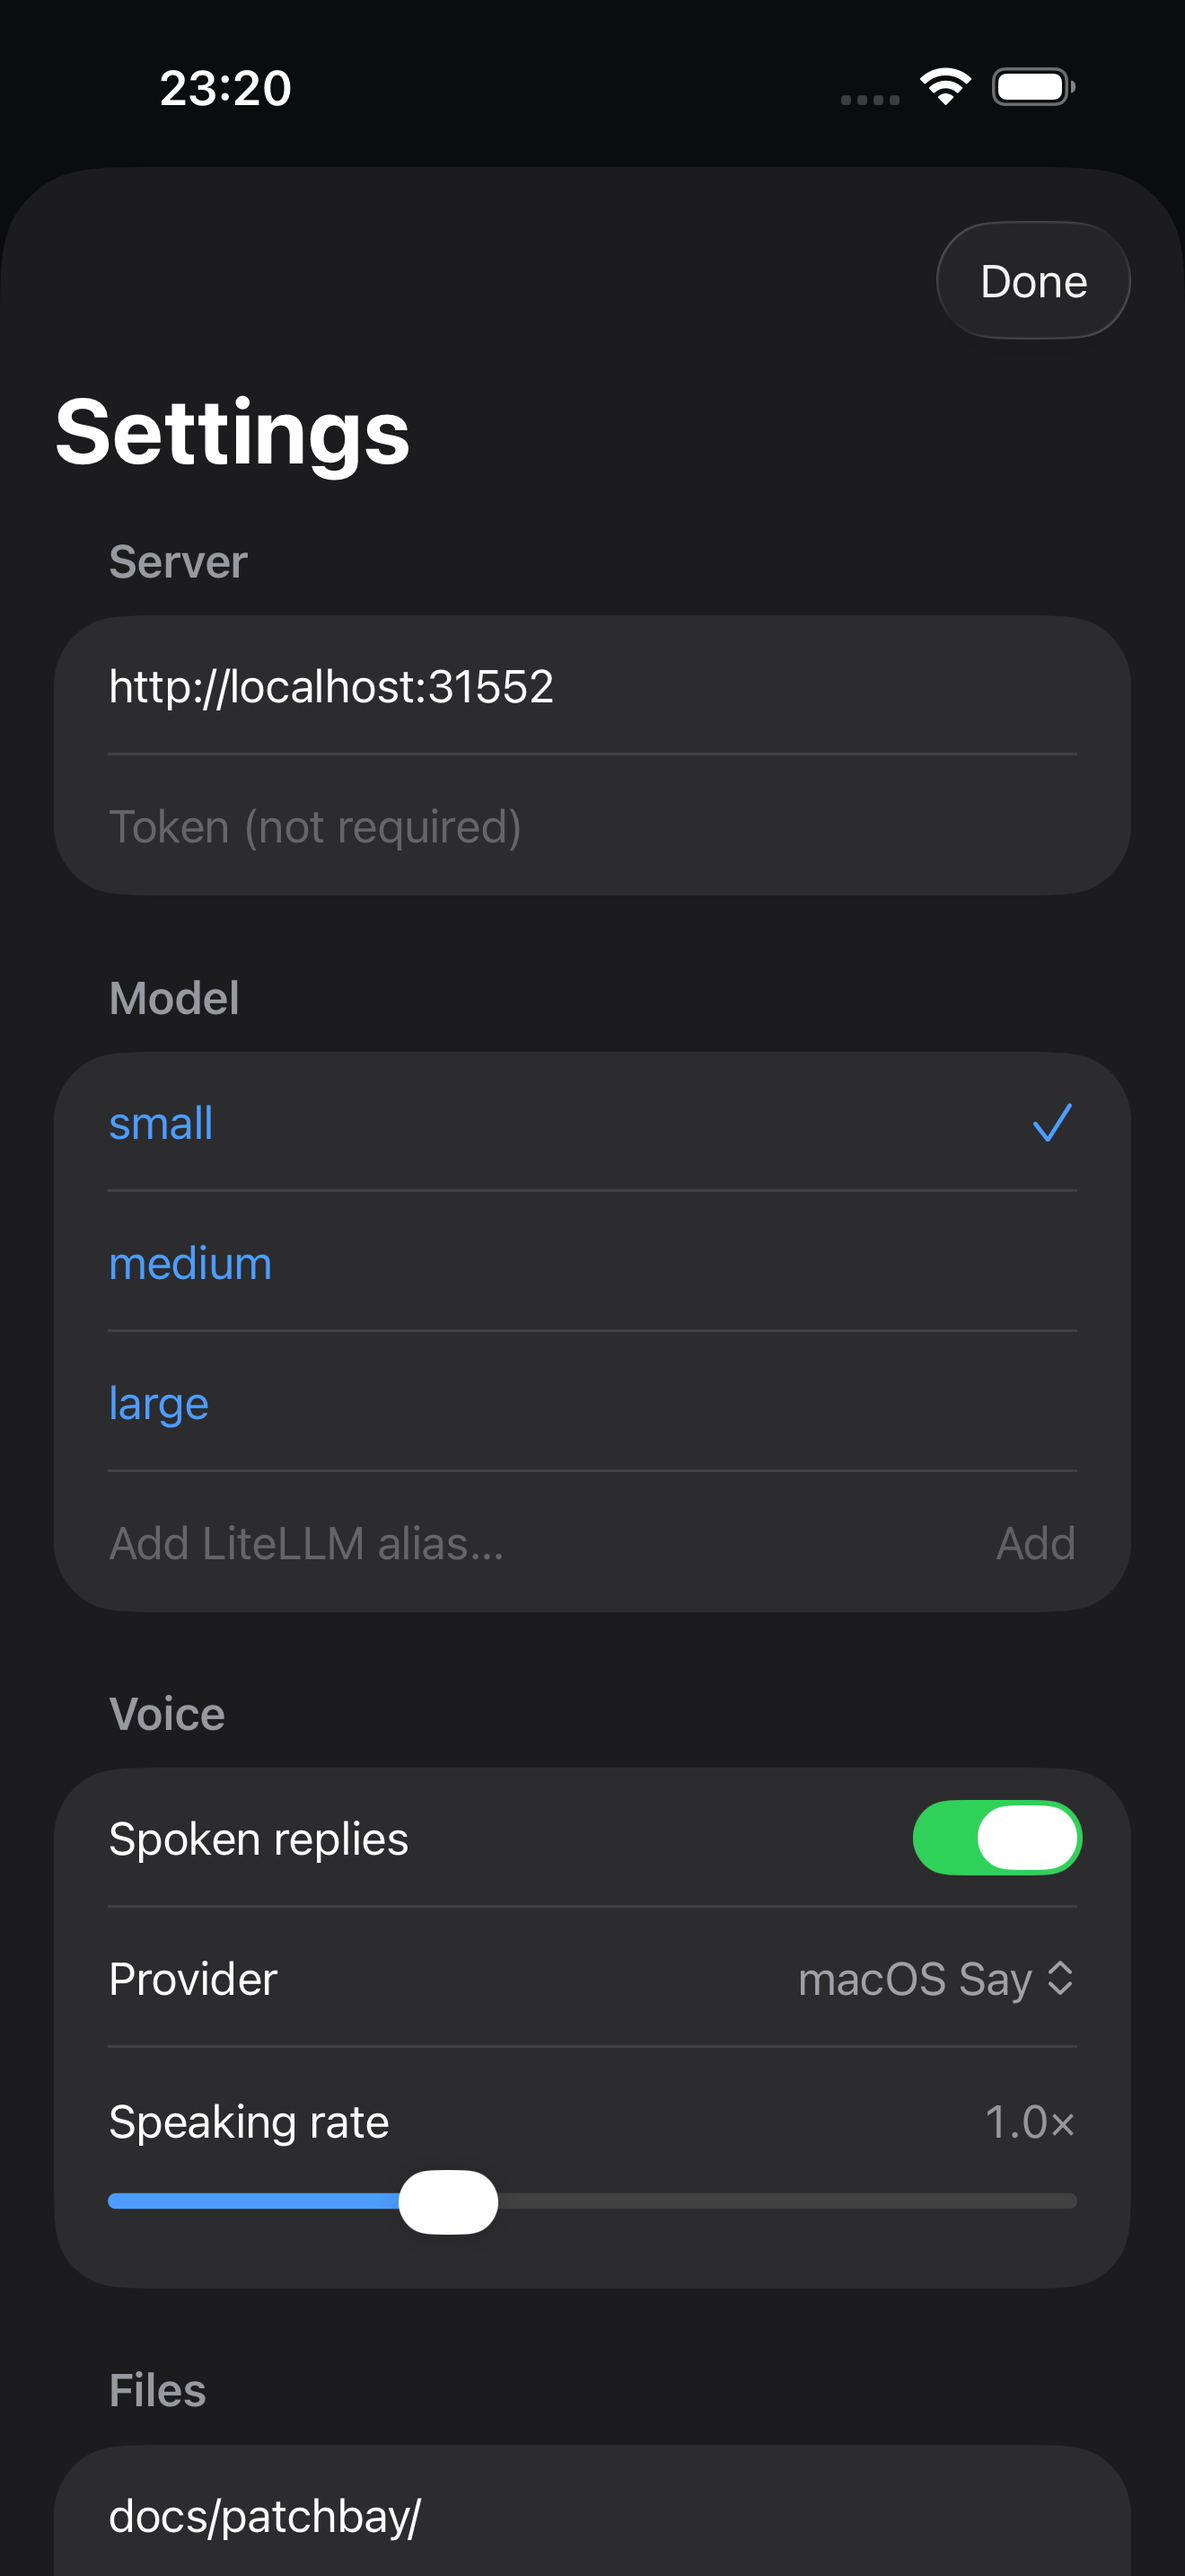
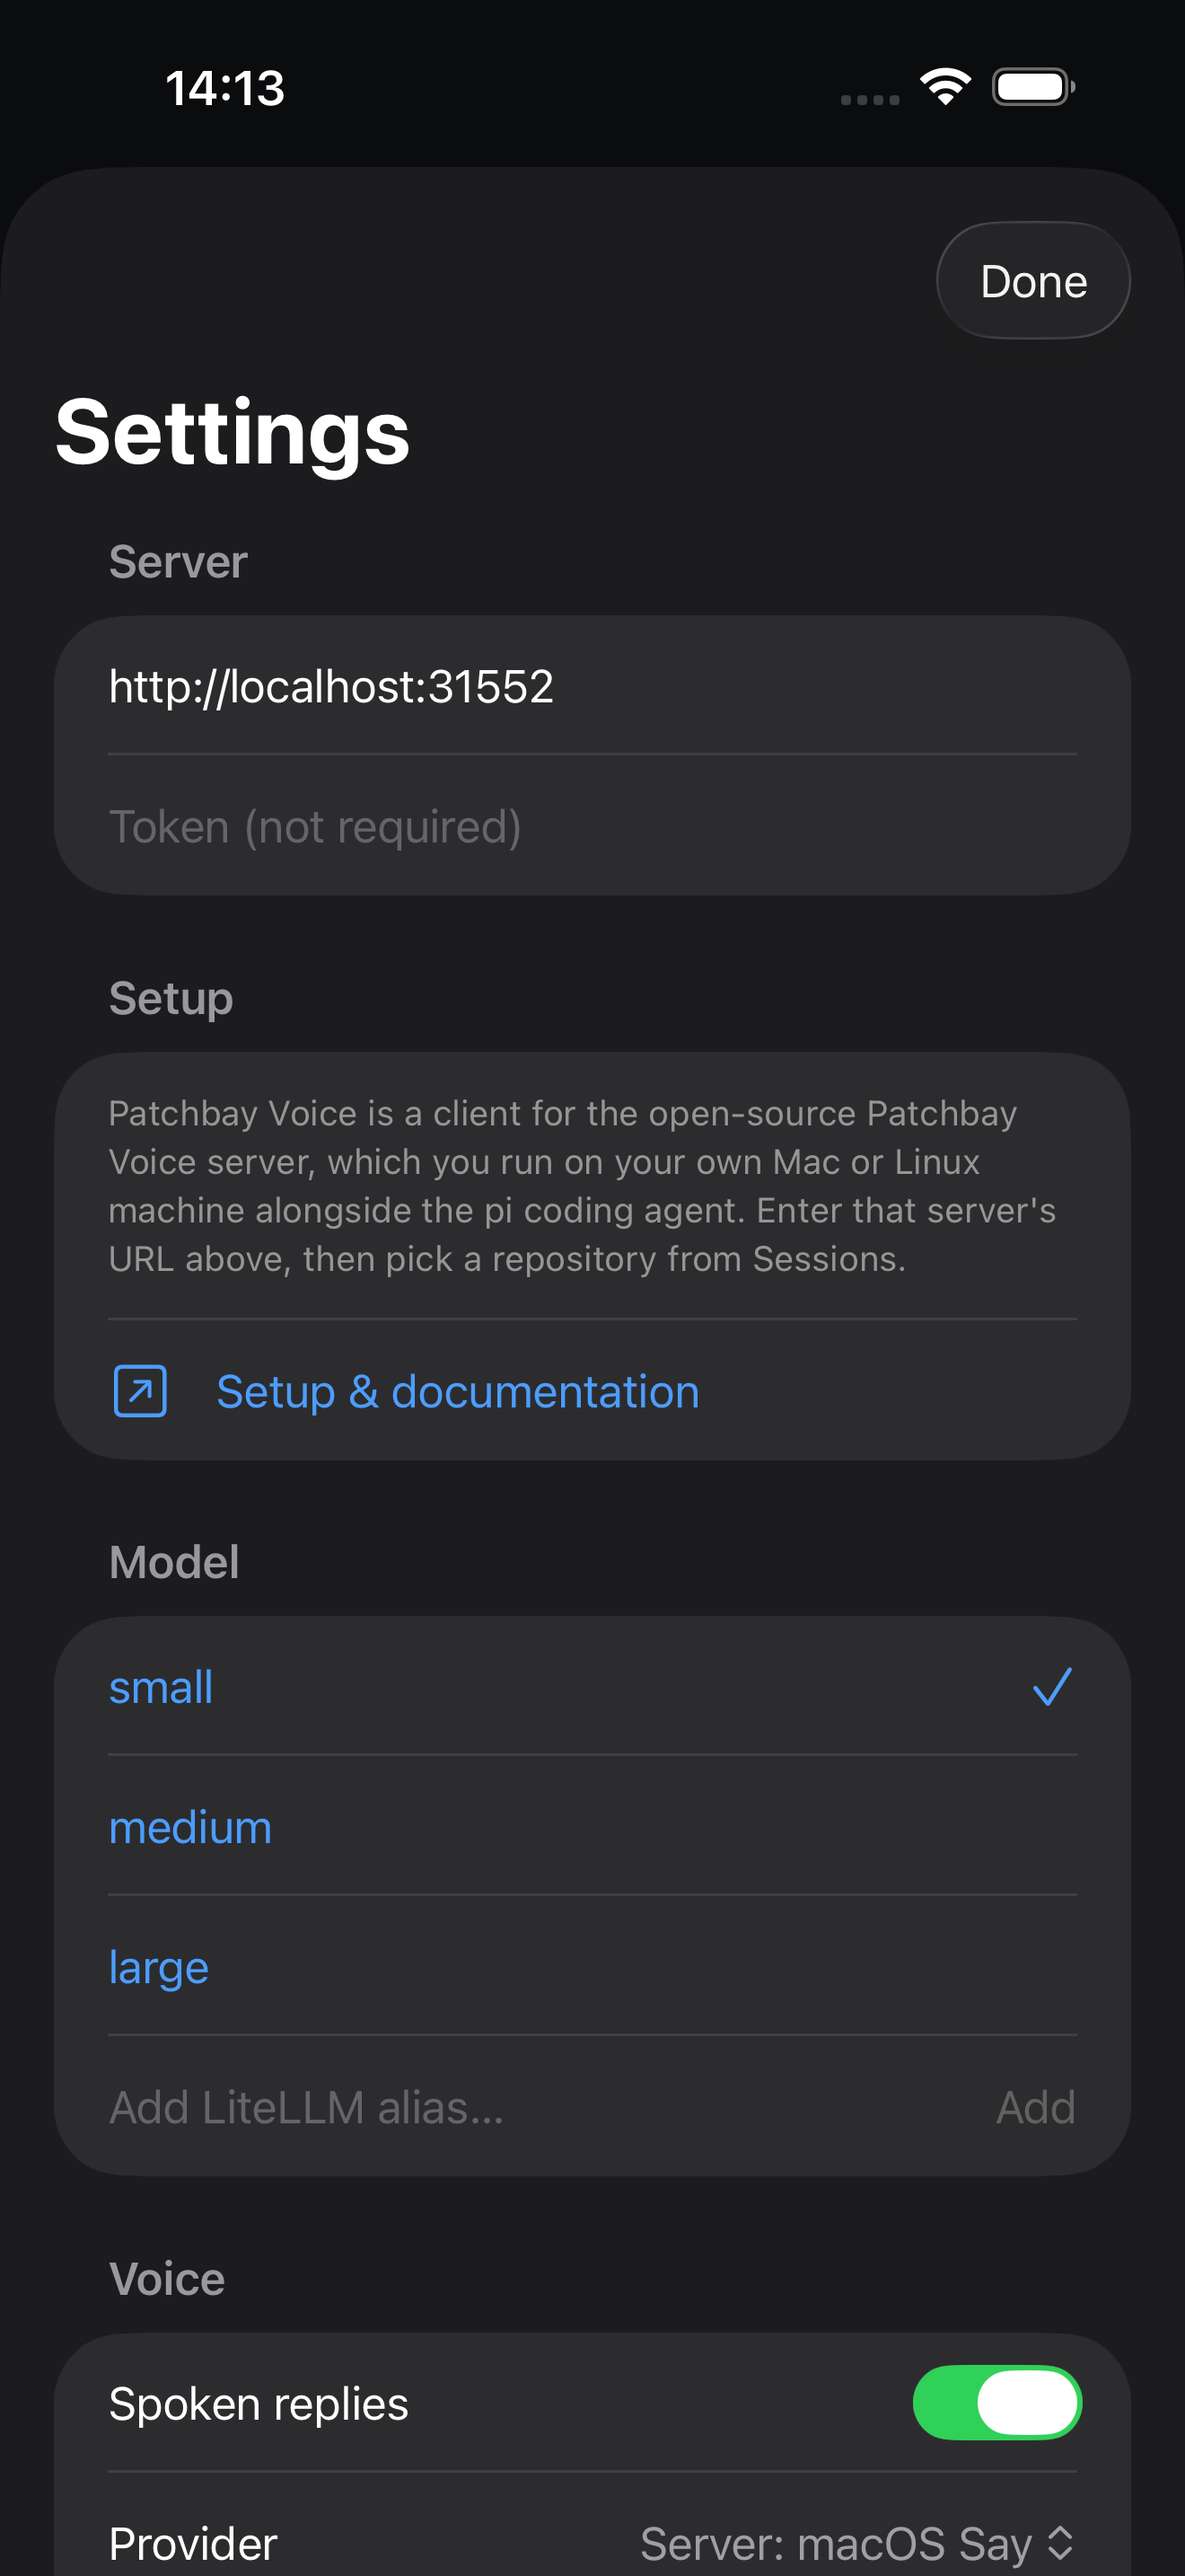
feat(ios): durable Setup reference in Settings
The onboarding card only shows before a session exists. Add a persistent
'Setup' section in Settings (below the server fields): what the app is, how to
point it at your server, and a link to setup docs — always available.

diff --git a/ios/Sources/PatchbayVoice/Views/SettingsView.swift b/ios/Sources/PatchbayVoice/Views/SettingsView.swift
@@ -22,6 +22,7 @@ struct SettingsView: View {
         NavigationStack {
             Form {
                 serverSection
+                setupSection
                 ModelSectionView()
                 voiceSection
                 filesSection
@@ -60,6 +61,21 @@ struct SettingsView: View {
             SecureField("Token (not required)", text: $serverToken)
                 .autocorrectionDisabled()
                 .textInputAutocapitalization(.never)
+        }
+    }
+
+    private var setupSection: some View {
+        Section("Setup") {
+            Text(
+                "Patchbay Voice is a client for the open-source Patchbay Voice server, which "
+                    + "you run on your own Mac or Linux machine alongside the pi coding agent. "
+                    + "Enter that server's URL above, then pick a repository from Sessions.",
+            )
+            .font(.footnote)
+            .foregroundStyle(.secondary)
+            Link(destination: URL(string: "https://github.com/synodic-studio/patchbay-voice")!) {
+                Label("Setup & documentation", systemImage: "arrow.up.right.square")
+            }
         }
     }
 
